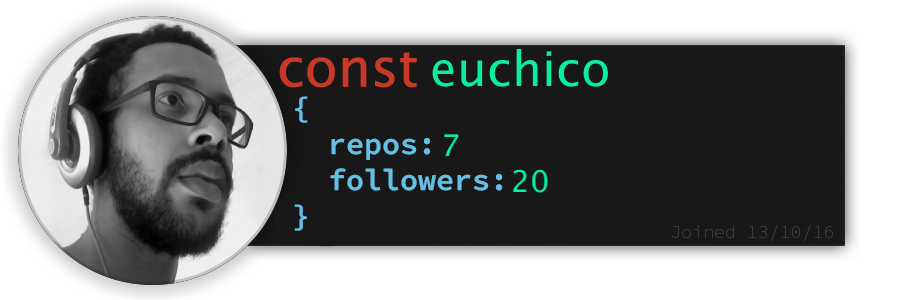
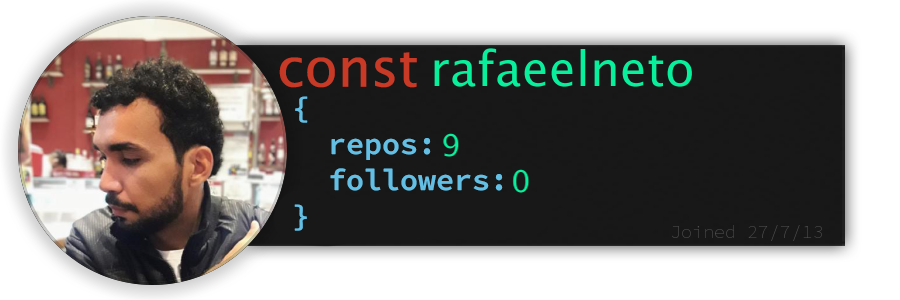
Updated readme

diff --git a/README.md b/README.md
@@ -21,7 +21,7 @@
 * Nícolas Gabriel, 18 years
 * Full Stack programmer
 * Currently studying Frameworks
-* I have 1 Year, 8 Months and 18 Days of experience
+* I have 1 Year, 8 Months and 19 Days of experience
 
 ## **💬 My skills:**
 ![JavaScript](https://img.shields.io/badge/javascript-%23323330.svg?style=for-the-badge&logo=javascript&logoColor=%23F7DF1E)
@@ -89,7 +89,7 @@
 ## 🐱💻 **Follower of the day**
 *Chooses one random follower of mine every day to showcase here.*
 
-<a href="https://github.com/euchico" alt="Francisco de Paula"><img style="height:150px;" src=./src/resources/images/followerOfTheDay.png alt="Follower of the day"/></a>
+<a href="https://github.com/rafaeelneto" alt="Rafael Neto"><img style="height:150px;" src=./src/resources/images/followerOfTheDay.png alt="Follower of the day"/></a>
 <hr>
 
 Do you want a dynamic README? Just follow my 5 minute [tutorial](./TUTORIAL.md)!
